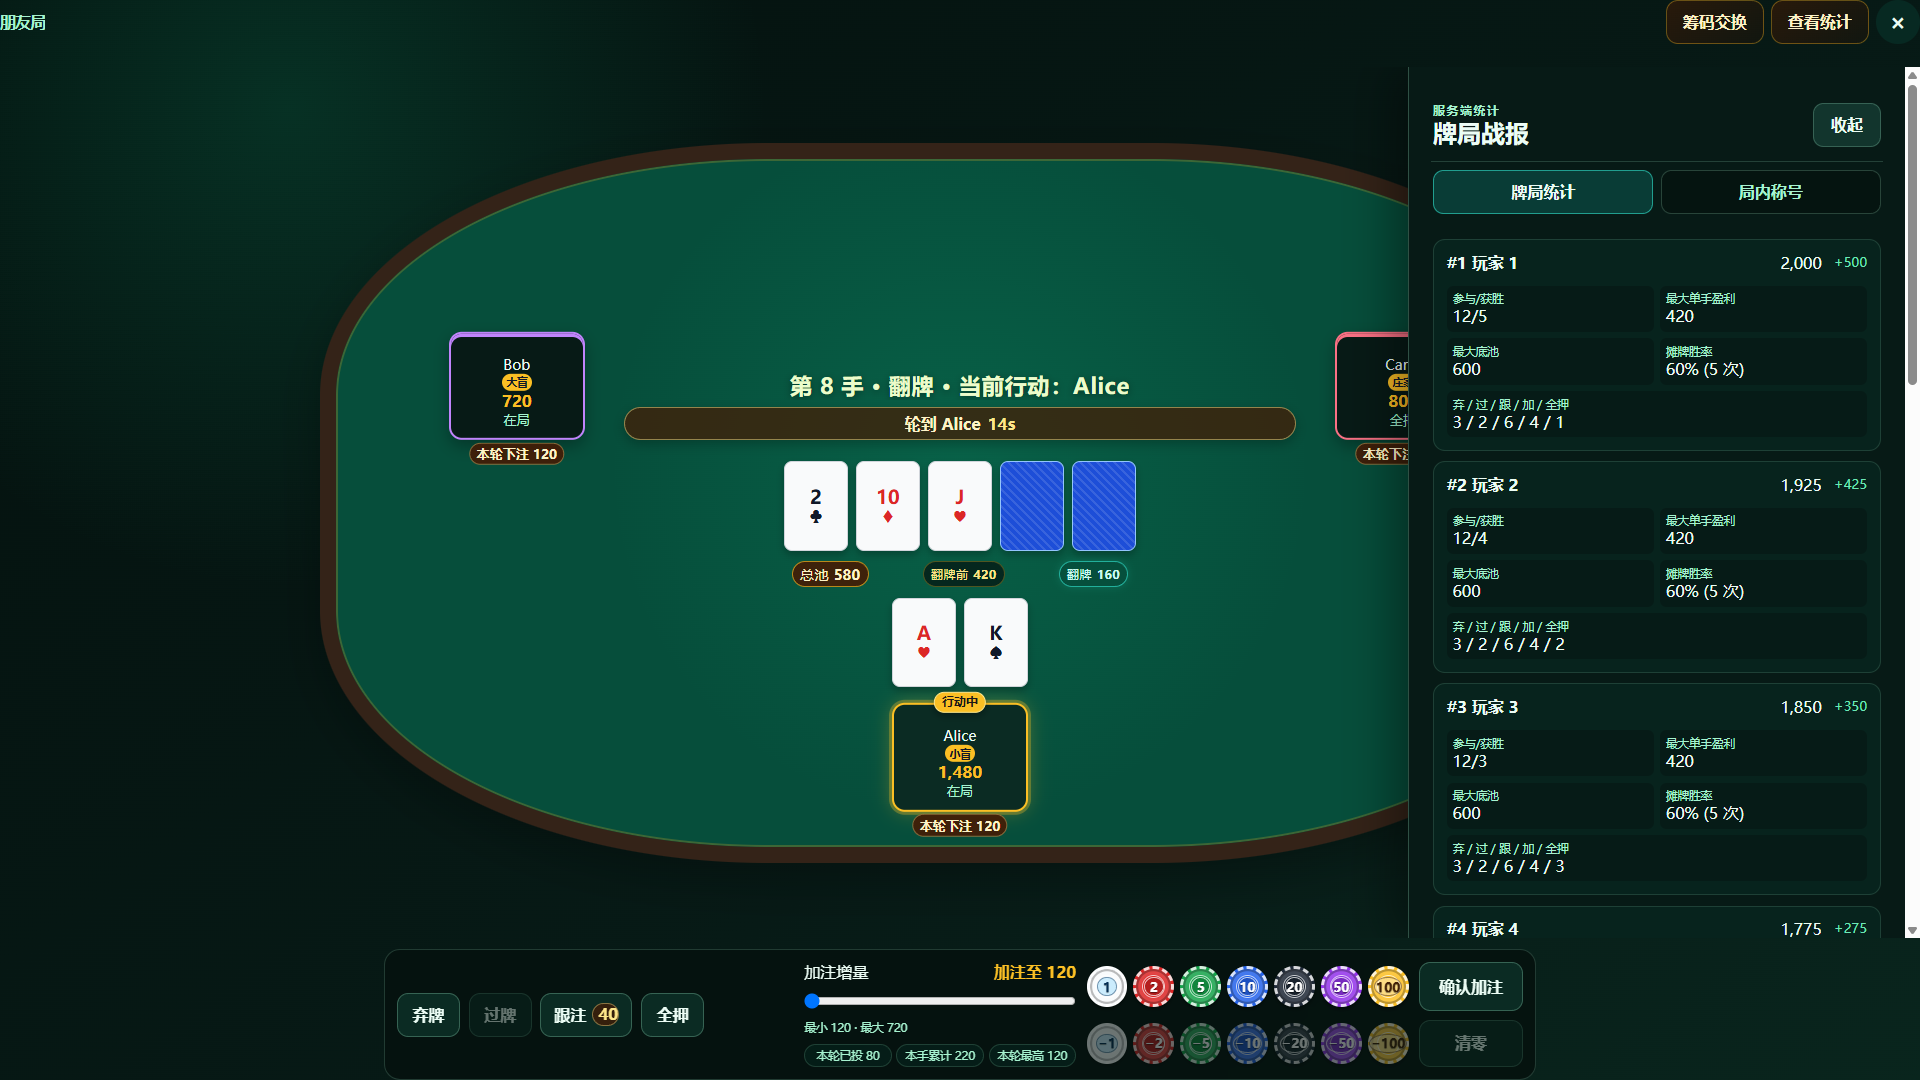
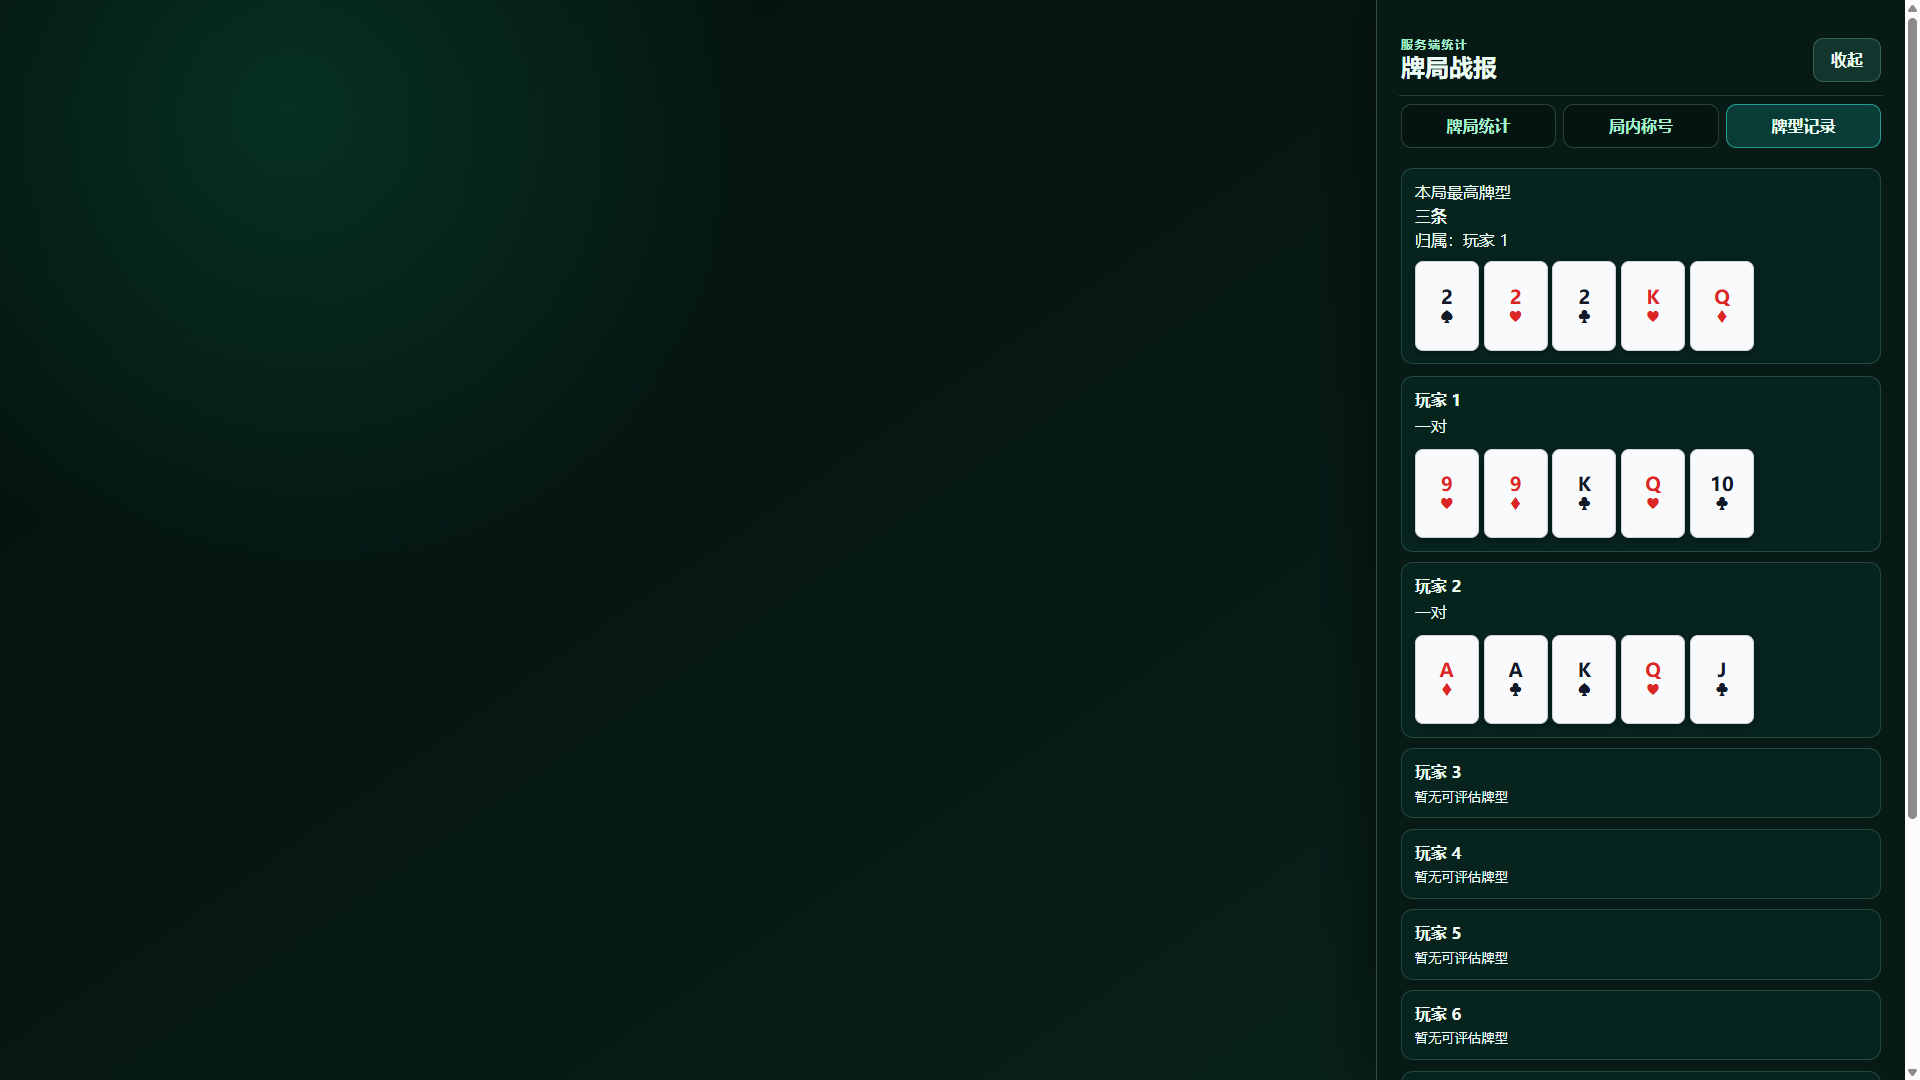
CHORE: 准备 1.0.1 正式发布

diff --git a/apps/host/src/app-version.ts b/apps/host/src/app-version.ts
@@ -1,1 +1,1 @@
-export const APP_VERSION = '1.0.0' as const;
+export const APP_VERSION = '1.0.1' as const;

diff --git a/docs/verification/e2e10-v1.0.1-final-smoke.md b/docs/verification/e2e10-v1.0.1-final-smoke.md
@@ -1,0 +1,78 @@
+# v1.0.1 最终 Windows 与联机验收记录
+
+验收日期：2026-08-06（Asia/Shanghai）
+
+## 验收环境
+
+- Microsoft Windows 11 专业版 x64。
+- 系统版本：`10.0.26200`。
+- Node.js：`24.14.0`。
+- pnpm：`10.0.0`。
+
+当前环境没有独立 Windows 10 x64 机器，也没有位于另一个公网出口的 EasyTier 节点。因此本记录不把 Windows 10 和跨公网 EasyTier 标记为已完成实测；README 中的 Windows 10/11 是目标支持范围，EasyTier 章节是基于虚拟 IP 直连能力与官方组网方式的使用建议。
+
+## 质量门禁
+
+- `pnpm install --frozen-lockfile`：通过。
+- `pnpm format:check`：通过。
+- `pnpm lint`：通过。
+- `pnpm typecheck`：通过；先构建 5 个共享包，再通过全部 8 个类型检查项目。
+- `pnpm test`：通过；客户端 36 个测试文件、196 个测试，宿主 44 个测试文件、164 个测试，桌面端 13 个测试文件、33 个测试，以及共享包测试全部通过。
+- `pnpm build`：通过。
+- `pnpm test:e2e`：通过，共 9 个测试文件、13 个场景。
+- `pnpm audit --prod`：通过，未发现已知生产依赖漏洞。
+- `pnpm package:win`：通过。
+
+### GitHub Actions
+
+修复后的提交 [`b402103`](https://github.com/LeonemZhang/Texas_Holdem/commit/b40210377486c0c8eaa3e76bc12bef159234c547/checks) 的 `quality` 和 `windows-smoke` 均成功。
+
+## UiSmokePreview 当前组件核验
+
+`apps/client/src/test/UiSmokePreview.tsx` 已按当前组件契约提供 `actionOrder`、`lastAction`、结算数据和 `handPeaks`，而不是只渲染旧版界面外壳。回归测试确认牌桌出现行动顺序，并且统计面板可以打开“牌型记录”视图。
+
+README 预览使用 Playwright 从当前预览路由重新生成，覆盖以下 5 个场景：牌局、结算、大厅与座位管理、牌局统计、筹码交换。每个场景均有：
+
+- 桌面端：`1920×1080`。
+- 手机端：`393×852`。
+
+统计截图实际打开了当前“牌型记录”标签，并显示全局与玩家最佳五张牌数据。
+
+## 正式产物
+
+| 文件 | 大小（bytes） | SHA-256 |
+| --- | ---: | --- |
[2 lines of base64/hex data omitted]
+
+MSI 数据库验证结果：
+
+- `ProductName=Texas Holdem`。
+- `ProductVersion=1.0.1.0`。
+- `Manufacturer=LeonemZhang`。
+- `UpgradeCode={B419EE84-D582-4FA3-9F65-60D45105F7B8}`。
+- 产物未进行 Authenticode 代码签名，与 README 声明一致。
+
+ZIP 共 93 个文件条目，可完整解压，根目录包含 `Texas Holdem.exe`、`LICENSE.txt` 和 `THIRD_PARTY_NOTICES.md`。
+
+## Windows 产物 smoke
+
+### MSI
+
+1. 使用正确引用的 MSI 路径静默安装成功，退出码为 `0`。
+2. 卸载项显示 `Texas Holdem 1.0.1.0`。
+3. 安装目录中的 `Texas Holdem.exe` 成功启动，观察到 5 个 Texas Holdem/Electron 进程。
+4. 静默卸载成功，退出码为 `0`；卸载项无残留。
+
+### ZIP
+
+1. ZIP 成功解压并通过文件完整性检查。
+2. 包含可执行文件、GPL 文本和第三方声明。
+
+## 尚未完成的外部环境验收
+
+- Windows 10 x64 的独立安装、启动和最小联机流程。
+- 两个不同公网出口之间的 EasyTier 虚拟 IP 连通、最小牌局和关闭 UDP 广播中继后的 IP 直连。
+- EasyTier UDP 广播中继下的跨虚拟网房间扫描。
+
+这些项目需要额外操作系统或真实外部网络环境，不能由当前单机 Windows 11 环境替代。

diff --git a/docs/releases/v1.0.1.md b/docs/releases/v1.0.1.md
@@ -1,0 +1,30 @@
+# Texas Holdem v1.0.1
+
+v1.0.1 是面向朋友局的维护发布，统一源码与 Windows 产物版本，并重新核验当前响应式界面组件。
+
+## 本次更新
+
+- 统一根项目、全部 workspace、房主服务和桌面安装包的版本号为 `1.0.1`。
+- `UiSmokePreview` 改用当前牌桌、结算、统计和座位相关组件所需的最新快照字段，包含行动顺序、最近行动、结算数据和牌型记录数据。
+- 增加预览回归检查，确认统计面板可以打开当前“牌型记录”视图，而不是只渲染旧版外壳。
+- 修复桌面端对 `@texas-holdem/protocol` 的直接依赖声明，确保干净 pnpm 安装与 GitHub Actions 的类型检查一致。
+- README 界面预览重新从当前组件生成，覆盖牌局、结算、大厅、统计和筹码交换的桌面与手机尺寸。
+
+## 下载
+
+- `Texas Holdem-1.0.1-x64.msi`：推荐安装方式，后续版本可通过 MSI 就地升级。
+- `Texas Holdem-1.0.1-x64.zip`：免安装便携版，不参与 MSI 升级。
+- `SHA256SUMS.txt`：两个发布文件的 SHA-256 校验值。
+
+仅从本仓库 Release 页面下载。当前产物未进行代码签名，Windows 可能显示 SmartScreen 或未知发布者提示。
+
+## 联机与兼容性
+
+- 房主使用 Windows 客户端运行权威房间服务，其他玩家可从 Windows、电脑浏览器或手机浏览器加入。
+- 同一牌局的房主和玩家应使用同一版本客户端；当前协议版本为 v3。
+- 支持实体局域网和 EasyTier 等虚拟局域网。默认使用虚拟 IP 直连，不要求 UDP 广播中继。
+- 仍不提供公网大厅、账号、支付、语音或跨设备房主迁移。
+
+## 验收边界
+
+本版本的本机 Windows 11 x64 安装、启动、卸载、打包资源最小联机牌局、全量质量门禁和 GitHub Actions 由对应验收记录与检查链接确认。Windows 10 独立机器和跨公网 EasyTier 实机链路仍需要额外环境，不能由当前单机环境替代。

diff --git a/docs/release.md b/docs/release.md
@@ -20,11 +20,17 @@ MSI 使用固定的 UpgradeCode。发布更高版本号的 MSI 时，Windows Ins
 ## 升级源码版本
 
 ```powershell
-pnpm version:set 1.0.0
+pnpm version:set <版本>
 pnpm package:win
 ```
 
 `version:set` 会更新根版本、所有 workspace 清单和房主服务的版本常量。若手动修改了根版本，可运行 `pnpm version:sync`；构建前可用 `pnpm version:check` 验证一致性。
+
+本次 v1.0.1 发布使用：
+
+```powershell
+pnpm version:set 1.0.1
+```
 
 ## 品牌资源
 
